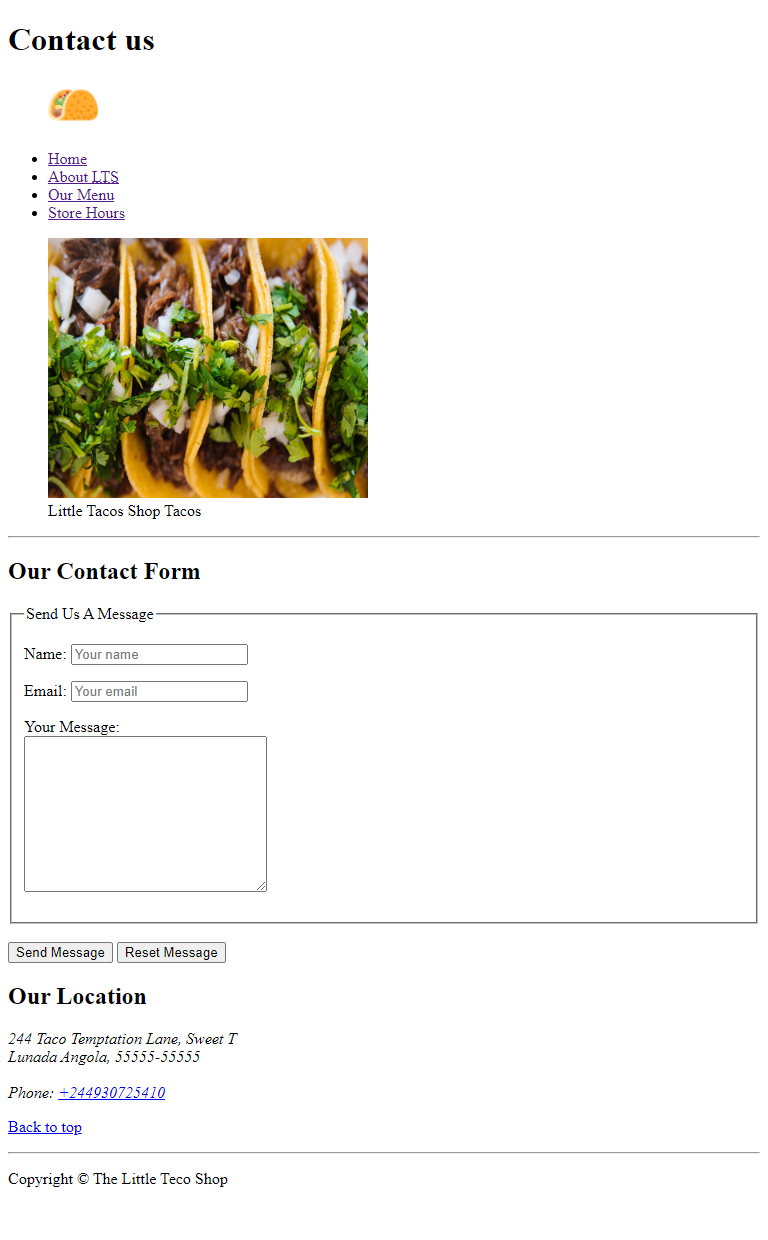
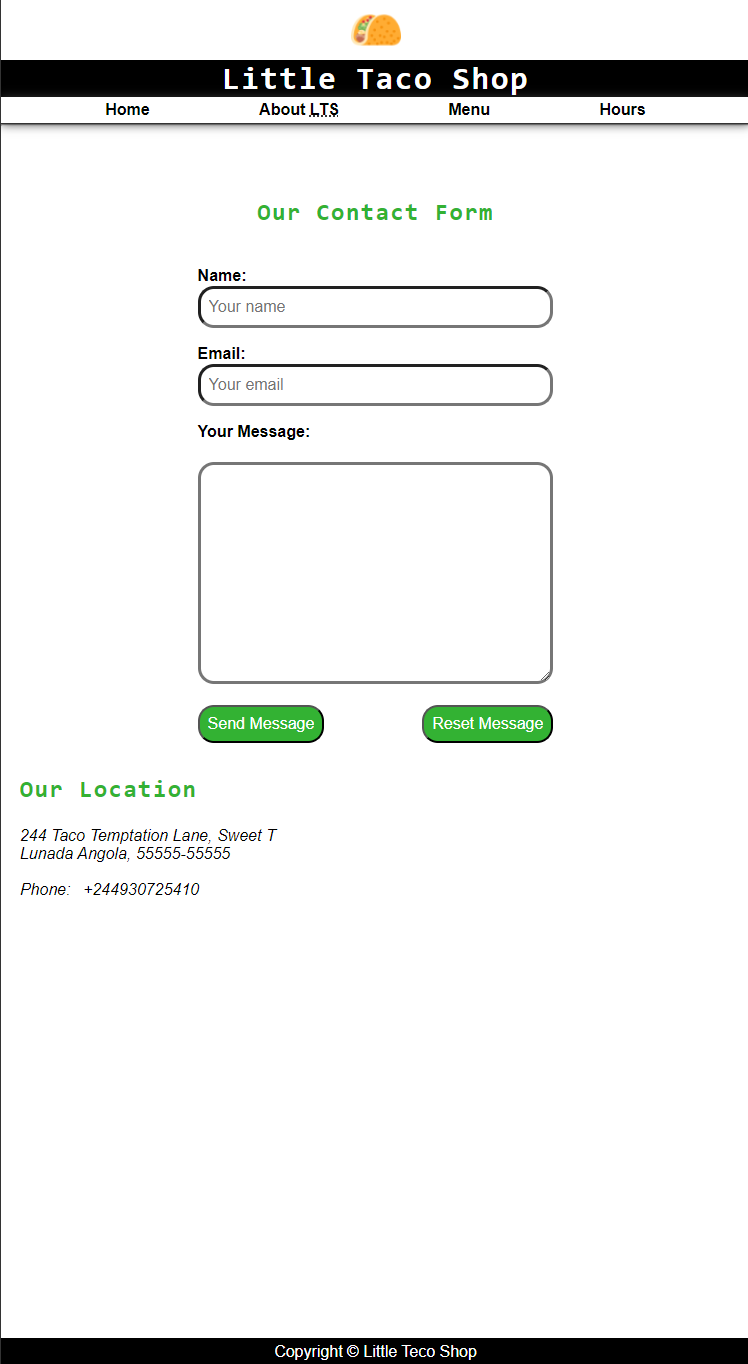
updated readme.md

diff --git a/styles.css b/styles.css
@@ -423,3 +423,11 @@ dd{
     }
     
 }
+
+@media screen and (min-width:601px) {
+    .contact__form{
+        max-width: 50%;
+        margin: auto;
+    }
+    
+}

diff --git a/README.md b/README.md
@@ -1,13 +1,13 @@
-# ![](image/favicon.ico) THE LITTLE TACO SHOP
+# ![](image/favicon.ico) LITTLE TACO SHOP
 ---
-##### *This is an HTML only project for the official website of the Little Taco Shop created by Odili Chinedum Christian.There are no style sheet for this project because its a strict html only project to test my html skill without CSS*
+##### *This is an HTML and CSS only project for the official website of the Little Taco Shop created by Odili Chinedum Christian.its a strict html and css only project to test my html and css skill*
 ---
 ** Table of Content:
-1. [Home.](https://github.com/sp-cristiano/taco/tree/main?tab=readme-ov-file#home)
-    1. [About TLS.](https://github.com/sp-cristiano/taco#about-tls)
-    1. [Our Menu.](https://github.com/sp-cristiano/taco#our-menu)
-1. [Store Hours.](https://github.com/sp-cristiano/taco/tree/main?tab=readme-ov-file#store-hours)
-1. [Contact Us.](https://github.com/sp-cristiano/taco#contact-us)
+1. [Home.](https://github.com/sp-cristiano/taco_CSS#home)
+    1. [About TLS.](https://github.com/sp-cristiano/taco_CSS#about-tls)
+    1. [Menu.](https://github.com/sp-cristiano/taco_CSS#our-menu)
+1. [Hours.](https://github.com/sp-cristiano/taco_CSS#store-hours)
+1. [Contact.](https://github.com/sp-cristiano/taco_CSS#contact-us)
 ##  HOME
 > The home page is a simple html file consising of a welcome message, some navigation menu, internal id link to the about TLS and Our Menu link, Taco trivia and an image of Tacos with its caption
 ### ABOUT TLS
